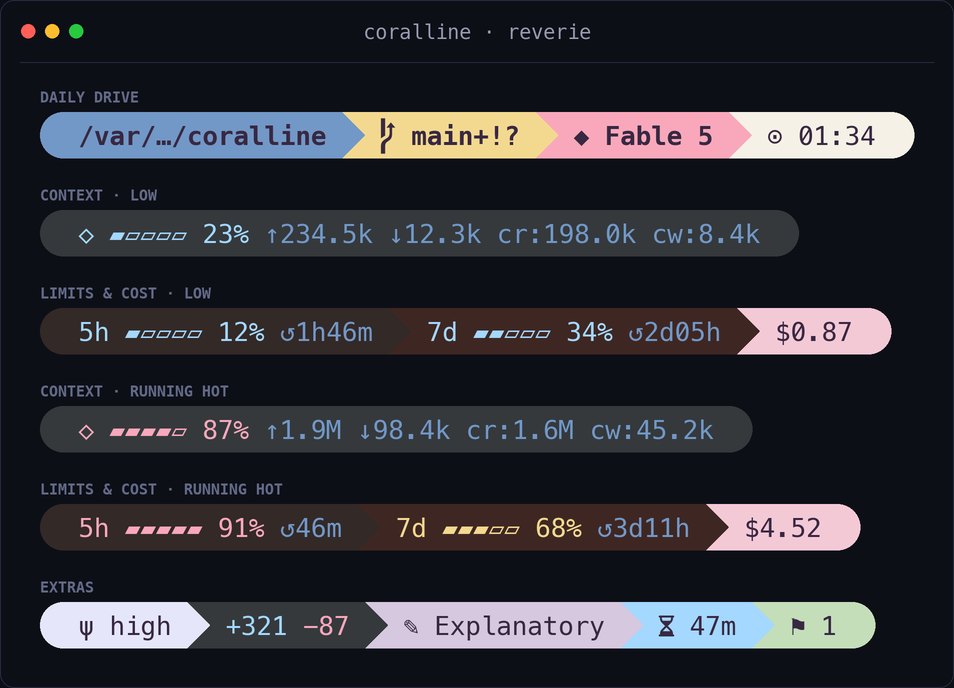
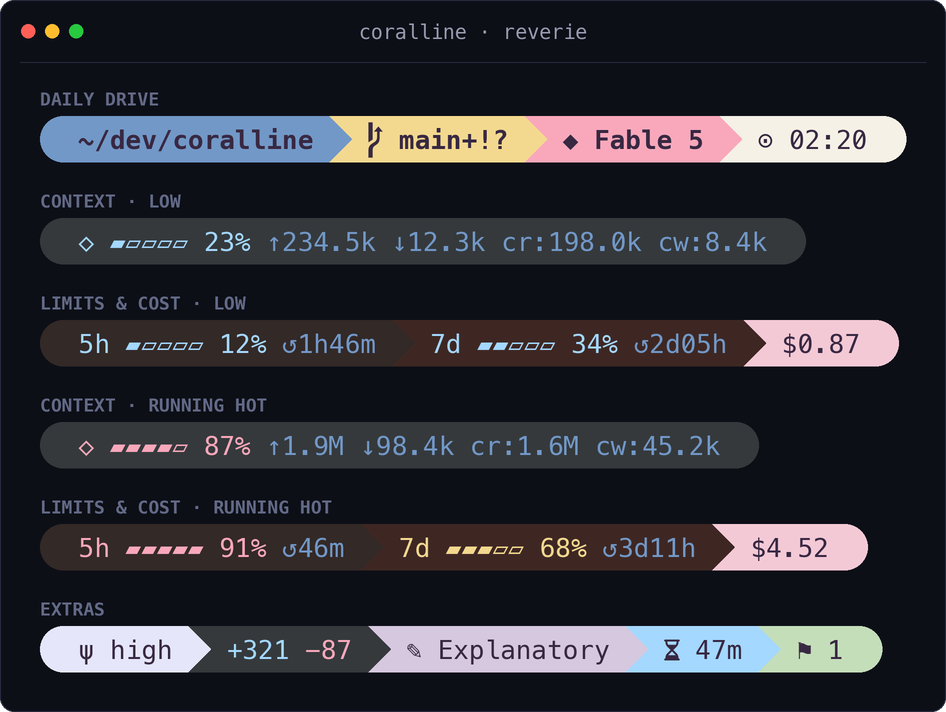
fix(screenshots): render README scenes that stay legible and show real state
tools/render-screenshots.py now produces the images the rebuilt README uses,
and fixes three defects in the scenes it already drew.

New scenes:
- hero.png: a Claude Code-style input box with three claude-coral rows under
  it (dir git model effort / ctx cache / limit5h limit7d cost clock), drawn by
  render_hero(). The payload gains a warm prompt_cache via with_cache() so the
  cache segment renders.
- themes.png: all ten bundled themes in a two-column grid (render_grid()), each
  cell labelled with the theme name and a one-line palette note (THEME_NOTES).
  It replaces the old hero, which was frozen to the original six themes.
- styles.png: the same two rows drawn in pill, lean, and classic.

Legibility: GitHub shows a README image at about 830 CSS px, so the hero,
theme grid, burn, and subagent scenes are split over more rows to keep the
images 1100-1540 px wide (the old burn demo was 2743, the subagent panel
1689). Scene labels grow from 15 to 18 px and grid labels use 21 px for the
same reason.
Every window is RGBA with transparent corners, so the rounded frame no longer
shows dark square corners on GitHub's light theme.

Defects fixed:
- FAKE_HOME is resolved. On macOS /var is a symlink to /private/var, the
  renderer sees the resolved cwd, and the dir segment rendered the raw
  /var/.../coralline path instead of ~/dev/coralline (visible in the old
  per-theme cards).
- run_burn() deletes the burn-demo.tsv.* side files (the cached .est estimate
[…]

diff --git a/tools/render-screenshots.py b/tools/render-screenshots.py
@@ -10,7 +10,8 @@ Usage:
     python3 tools/render-screenshots.py
 
 Deps: pillow, fonttools, and a "MesloLG* Nerd Font Mono" installed.
-Outputs: assets/hero.png and assets/theme-<name>.png
+Outputs: assets/hero.png, assets/themes.png, assets/styles.png,
+         assets/theme-<name>.png and the feature demos (burn, wrap, panel)
 """
 
 import glob
@@ -27,17 +28,29 @@ from PIL import Image, ImageDraw, ImageFont
 
 REPO = Path(__file__).resolve().parent.parent
 ASSETS = REPO / "assets"
-FAKE_HOME = Path(tempfile.gettempdir()) / "vl-home"
+# resolve(): macOS's /var is a symlink to /private/var and statusline.sh sees the
+# resolved cwd, so an unresolved HOME would not prefix-match it and dir would
+# render the raw /var/…/coralline path instead of ~/dev/coralline.
+FAKE_HOME = Path(tempfile.gettempdir()).resolve() / "vl-home"
 DEMO = FAKE_HOME / "dev" / "coralline"
 
 THEMES = ["claude-coral", "catppuccin-mocha", "nord",
           "gruvbox-dark", "tokyo-night", "mono", "dracula",
           "lunar-pink", "reverie", "morning-haze"]
 
-# hero.png is a curated sampler frozen to the original six themes; new themes go
-# in the per-theme gallery (theme-<name>.png) only, so the banner doesn't grow.
-HERO_THEMES = ["claude-coral", "catppuccin-mocha", "nord",
-               "gruvbox-dark", "tokyo-night", "mono"]
+# One-line palette notes shown beside each name in the themes.png grid.
+THEME_NOTES = {
+    "claude-coral": "steel blue · mauve · coral (default)",
+    "catppuccin-mocha": "soft pastels on dark",
+    "nord": "arctic frost",
+    "gruvbox-dark": "warm retro",
+    "tokyo-night": "neon on deep navy",
+    "mono": "grayscale minimalism",
+    "dracula": "cyan · pink · purple",
+    "lunar-pink": "pink · cyan · yellow",
+    "reverie": "soft pastels, plum text",
+    "morning-haze": "periwinkle · sage · sandstone",
+}
 
 # ── Geometry (S = supersampling factor, downscaled at save time) ─────────────
 S = 2
@@ -45,7 +58,7 @@ FS = 26 * S
 CELL_H = 46 * S
 PAD = 40 * S
 TITLE_H = 62 * S
-LABEL_H = 30 * S
+LABEL_H = 34 * S
 ROW_GAP = 22 * S
 LINE_GAP = 6 * S
 
@@ -54,6 +67,17 @@ BORDER = (38, 43, 61)
 TITLE_FG = (150, 155, 175)
 LABEL_FG = (99, 106, 135)
 DEFAULT_FG = (220, 222, 228)
+# Theme notes sit one step dimmer than the label so the name stays the anchor.
+NOTE_FG = (78, 84, 108)
+# Gap between grid columns: wide enough that two pill rows never read as one bar.
+COL_GAP = 56 * S
+# Hero prompt box: a brighter border than the window frame so it reads as the
+# input field the statusline sits under; the coral caret ties it to the default
+# theme.
+PROMPT_BORDER = (72, 79, 104)
+PROMPT_CARET = (217, 119, 87)
+PROMPT_TEXT = (200, 204, 216)
+CURSOR_FG = (150, 156, 178)
 
 CAP_L, CAP_R, SEP = "", "", ""
 
@@ -71,7 +95,14 @@ FONT_PATH = find_font("Regular")
 FONT = ImageFont.truetype(FONT_PATH, FS)
 FONT_B = ImageFont.truetype(find_font("Bold"), FS)
 FONT_TITLE = ImageFont.truetype(FONT_PATH, 20 * S)
-FONT_LABEL = ImageFont.truetype(find_font("Bold"), 15 * S)
+# Scene labels explain each row (burn states, wrap caps); README shows these
+# images at roughly 0.6x, where 18 px is the smallest label still readable.
+FONT_LABEL = ImageFont.truetype(find_font("Bold"), 18 * S)
+# themes.png is shown at about half size in the README, so its labels need a
+# larger face than the full-size cards to stay readable there.
+FONT_GRID_LABEL = ImageFont.truetype(find_font("Bold"), 21 * S)
+FONT_GRID_NOTE = ImageFont.truetype(FONT_PATH, 21 * S)
+GRID_LABEL_H = 40 * S
 
 # Some symbols the script emits are absent from Meslo NF (terminals fall back
 # to other fonts; PIL cannot). Substitute with glyphs the font does have.
@@ -88,6 +119,7 @@ GLYPH_FIX = {
     "⬡": pick_glyph([0x2B22, 0x25C7], "#"),    # ⬡ → hexagon/diamond (ctx)
     "⬢": pick_glyph([0x2B22, 0x25CF], "#"),    # ⬢ → filled hexagon/circle (project)
     "⧖": pick_glyph([0xF252, 0xF017, 0x231B], "~"),  # ⧖ → hourglass/clock
+    "⛁": pick_glyph([0xF1C0, 0x26C1], "#"),    # ⛁ → nf-fa-database (cache)
 }
 
 # ── xterm-256 → RGB ──────────────────────────────────────────────────────────
@@ -191,17 +223,7 @@ def render_image(title, blocks, out_path):
         height += LABEL_H + len(rows) * CELL_H + (len(rows) - 1) * LINE_GAP + ROW_GAP
     height += PAD - ROW_GAP
 
-    img = Image.new("RGB", (width, height), WINDOW_BG)
-    draw = ImageDraw.Draw(img)
-    draw.rounded_rectangle([0, 0, width - 1, height - 1], radius=14 * S,
-                           outline=BORDER, width=S)
-    for idx, color in enumerate([(255, 95, 86), (255, 189, 46), (39, 201, 63)]):
-        cx = (28 + idx * 24) * S
-        r = 7 * S
-        draw.ellipse([cx - r, TITLE_H // 2 - r, cx + r, TITLE_H // 2 + r], fill=color)
-    draw.text((width / 2, TITLE_H / 2 + S), title,
-              font=FONT_TITLE, fill=TITLE_FG, anchor="mm")
-    draw.line([PAD // 2, TITLE_H, width - PAD // 2, TITLE_H], fill=BORDER, width=S)
+    img, draw = new_window(width, height, title)
 
     y = TITLE_H + PAD // 2
     for label, rows in blocks:
@@ -213,9 +235,83 @@ def render_image(title, blocks, out_path):
             y += CELL_H + LINE_GAP
         y += ROW_GAP - LINE_GAP
 
+    save_window(img, out_path)
+
+def new_window(width, height, title):
+    # Transparent outside the rounded frame, so the corners don't show as dark
+    # squares on GitHub's light theme.
+    img = Image.new("RGBA", (width, height), (0, 0, 0, 0))
+    draw = ImageDraw.Draw(img)
+    draw.rounded_rectangle([0, 0, width - 1, height - 1], radius=14 * S,
+                           fill=WINDOW_BG, outline=BORDER, width=S)
+    for idx, color in enumerate([(255, 95, 86), (255, 189, 46), (39, 201, 63)]):
+        cx = (28 + idx * 24) * S
+        r = 7 * S
+        draw.ellipse([cx - r, TITLE_H // 2 - r, cx + r, TITLE_H // 2 + r], fill=color)
+    draw.text((width / 2, TITLE_H / 2 + S), title,
+              font=FONT_TITLE, fill=TITLE_FG, anchor="mm")
+    draw.line([PAD // 2, TITLE_H, width - PAD // 2, TITLE_H], fill=BORDER, width=S)
+    return img, draw
+
+def save_window(img, out_path):
+    width, height = img.size
     img = img.resize((width // S, height // S), Image.LANCZOS)
-    img.save(out_path)
+    img.save(out_path, optimize=True)
     print(f"wrote {out_path}  ({width // S}x{height // S})")
+
+def render_grid(title, cells, cols, out_path):
+    """cells: list of (label, note, rows), laid out left to right in `cols`
+    columns. Every cell gets the widest cell's width so the columns align."""
+    cell_w = max(draw_cells(None, c, 0, 0) for _, _, rows in cells for c in rows)
+    n_rows = max(len(rows) for _, _, rows in cells)
+    cell_h = GRID_LABEL_H + n_rows * CELL_H + (n_rows - 1) * LINE_GAP
+    grid_rows = -(-len(cells) // cols)
+    width = int(cols * cell_w + (cols - 1) * COL_GAP) + 2 * PAD
+    height = TITLE_H + PAD // 2 + grid_rows * (cell_h + ROW_GAP) - ROW_GAP + PAD
+
+    img, draw = new_window(width, height, title)
+    for i, (label, note, rows) in enumerate(cells):
+        x = PAD + (i % cols) * (cell_w + COL_GAP)
+        y = TITLE_H + PAD // 2 + (i // cols) * (cell_h + ROW_GAP)
+        draw.text((x, y + GRID_LABEL_H // 2), label,
+                  font=FONT_GRID_LABEL, fill=LABEL_FG, anchor="lm")
+        if note:
+            nx = x + FONT_GRID_LABEL.getlength(label) + 16 * S
+            draw.text((nx, y + GRID_LABEL_H // 2), note,
+                      font=FONT_GRID_NOTE, fill=NOTE_FG, anchor="lm")
+        y += GRID_LABEL_H
+        for c in rows:
+            draw_cells(draw, c, x, y)
+            y += CELL_H + LINE_GAP
+    save_window(img, out_path)
+
+def render_hero(title, prompt, rows, out_path):
+    """A Claude Code-style input box with the statusline rows underneath it,
+    which is where Claude Code draws the statusline."""
+    content_w = max(draw_cells(None, c, 0, 0) for c in rows)
+    width = int(content_w) + 2 * PAD
+    box_h = CELL_H + 22 * S
+    gap = 14 * S
+    height = (TITLE_H + PAD // 2 + box_h + gap
+              + len(rows) * CELL_H + (len(rows) - 1) * LINE_GAP + PAD)
+
+    img, draw = new_window(width, height, title)
+    y = TITLE_H + PAD // 2
+    draw.rounded_rectangle([PAD, y, width - PAD, y + box_h], radius=10 * S,
+                           outline=PROMPT_BORDER, width=S)
+    mid = y + box_h / 2 + S
+    x = PAD + 22 * S
+    draw.text((x, mid), ">", font=FONT_B, fill=PROMPT_CARET, anchor="lm")
+    x += FONT.getlength("> ")
+    draw.text((x, mid), prompt, font=FONT, fill=PROMPT_TEXT, anchor="lm")
+    x += FONT.getlength(prompt + " ")
+    draw.rectangle([x, mid - FS * 0.55, x + FONT.getlength(" ") - S, mid + FS * 0.5],
+                   fill=CURSOR_FG)
+    y += box_h + gap
+    for c in rows:
+        draw_cells(draw, c, PAD, y)
+        y += CELL_H + LINE_GAP
+    save_window(img, out_path)
 
 # ── Demo data ────────────────────────────────────────────────────────────────
 def setup_demo_repo():
@@ -325,12 +421,16 @@ def make_payload(**over):
 # within CORALLINE_BURN_WINDOW (600s). We seed a sample file so the live
 # statusline.sh produces a real recent-slope ETA — no faked output.
 def run_burn(theme, segments, climb, fh_pct, fh_reset_s,
-             wd_pct=40, wd_reset_s=6 * 86400):
+             wd_pct=40, wd_reset_s=6 * 86400, extra_conf=""):
     """climb: list of (seconds_ago, integer_pct) seeding the recent slope, or
     None for the cold-start 'warming' state. wd_pct=None omits the 7d limit
     entirely (so a no-samples render shows the true '↗ …', not a 7d fallback)."""
     now = int(time.time())
     burn_file = FAKE_HOME / "burn-demo.tsv"
+    # statusline.sh keeps a cached estimate (.est) and tick files beside the
+    # sample file; clear them so each scene is estimated from its own samples.
+    for side in FAKE_HOME.glob("burn-demo.tsv.*"):
+        side.unlink()
     burn_file.write_text(
         "".join(f"{now - ago}\t{pct}\t{now + fh_reset_s}\n" for ago, pct in climb)
         if climb else ""
@@ -338,7 +438,7 @@ def run_burn(theme, segments, climb, fh_pct, fh_reset_s,
     rl = {"five_hour": {"used_percentage": fh_pct, "resets_at": now + fh_reset_s}}
     if wd_pct is not None:
         rl["seven_day"] = {"used_percentage": wd_pct, "resets_at": now + wd_reset_s}
-    return run_bar(theme, segments, make_payload(rate_limits=rl),
+    return run_bar(theme, segments, make_payload(rate_limits=rl), extra_conf,
                    env_extra={"CORALLINE_BURN_FILE": str(burn_file),
                               "CORALLINE_BURN_WINDOW": "600"})
 
@@ -350,14 +450,15 @@ CLIMB_SLOW = [(560, 29), (500, 30)]
 # Crossings exist but all older than the 600s window → idle → dim ✓.
 CLIMB_IDLE = [(1400, 30), (1300, 31)]
 
-# The complete canonical layout, with burn in its documented slot (after
-# limit7d) — i.e. what a fully-configured coralline looks like in Claude Code.
-FULL = "dir git model effort ctx limit5h limit7d burn cost clock"
+# The canonical order with burn in its documented slot (after limit7d), minus
+# effort and ctx, over two fixed rows so the image stays readable at README width.
+FULL_ROW1 = "dir git model"
+FULL_ROW2 = 'VL_SEGMENTS2="limit5h limit7d burn cost clock"\n'
 
 def burn_blocks():
     return [
         ("the full statusline, burn included",     run_burn("claude-coral",
-            FULL, CLIMB_MED, 31, 7800)),
+            FULL_ROW1, CLIMB_MED, 31, 7800, extra_conf=FULL_ROW2)),
         ("empties before the 5h window resets",    run_burn("claude-coral",
             "limit5h burn", CLIMB_MED, 31, 10800)),
         ("reset and empty are neck-and-neck",      run_burn("claude-coral",
@@ -383,10 +484,38 @@ def theme_blocks(theme):
         ("extras",             run_bar(theme, "effort lines style duration stash", HIGH)),
     ]
 
-def hero_blocks():
-    return [(theme, run_bar(theme, "dir git model clock", MID)
-                    + run_bar(theme, "ctx limit5h cost", MID))
-            for theme in HERO_THEMES]
+def with_cache(payload_json, ratio=0.9812, left_s=252):
+    """Add a warm prompt cache expiring `left_s` seconds from now."""
+    p = json.loads(payload_json)
+    p["prompt_cache"] = {"warm": True, "ttl": "5m", "hit_ratio": ratio,
+                         "expires_at": int(time.time()) + left_s}
+    return json.dumps(p)
+
+# GitHub shows a README image at about 830 CSS px, so a scene's width decides its
+# text size there: rows are split to keep README images near 1100-1500 px wide,
+# where the 26 px cells land around 14-19 px instead of shrinking to 11.
+def hero_rows():
+    rows = ('VL_SEGMENTS2="ctx cache"\n'
+            'VL_SEGMENTS3="limit5h limit7d cost clock"\n')
+    return run_bar("claude-coral", "dir git model effort", with_cache(MID), rows)
+
+def themes_cells():
+    # Two short rows per theme, so two columns stay legible at README width;
+    # 7d at 79% shows each theme's hot color.
+    return [(t, THEME_NOTES[t],
+             run_bar(t, "dir git model", MID)
+             + run_bar(t, "limit7d cost clock", MID))
+            for t in THEMES]
+
+def styles_blocks():
+    look = lambda s: f'VL_STYLE="{s}"\n'
+    rows = lambda extra: (run_bar("claude-coral", "dir git model effort", MID, extra)
+                          + run_bar("claude-coral", "limit5h limit7d cost clock", MID, extra))
+    return [
+        ("pill (default)", rows("")),
+        ("lean",           rows(look("lean"))),
+        ("classic",        rows(look("classic"))),
+    ]
 
 def lean_blocks():
     lean = 'VL_STYLE="lean"\n'
@@ -441,7 +570,8 @@ def panel_blocks():
     ]
     clock = 'VL_CLOCK="24h"\nVL_CLOCK_SECONDS=0\n'
     return [
-        ("main statusline", run_bar("claude-coral", "dir git model effort ctx", MID, clock)
+        ("main statusline", run_bar("claude-coral", "dir git model effort", MID, clock)
+                          + run_bar("claude-coral", "ctx", MID, clock)
                           + run_bar("claude-coral", "limit5h limit7d cost clock", MID, clock)),
         ("subagent panel rows", run_panel("claude-coral", tasks, 'VL_NAME_MAX=46\n')),
     ]
@@ -465,7 +595,12 @@ def main():
                      ASSETS / "burn-segment.png")
     if only == "burn":
         return
-    render_image("coralline — pick your vibe", hero_blocks(), ASSETS / "hero.png")
+    render_hero("claude · ~/dev/coralline", "make the burn ETA ignore idle gaps",
+                hero_rows(), ASSETS / "hero.png")
+    render_grid("coralline · ten bundled themes", themes_cells(), 2,
+                ASSETS / "themes.png")
+    render_image("coralline · three styles, same data", styles_blocks(),
+                 ASSETS / "styles.png")
     render_image("coralline · lean style", lean_blocks(), ASSETS / "style-lean.png")
     render_image("coralline · classic style", classic_blocks(), ASSETS / "style-classic.png")
     render_image("coralline · responsive wrap", wrap_blocks(), ASSETS / "wrap-demo.png")
